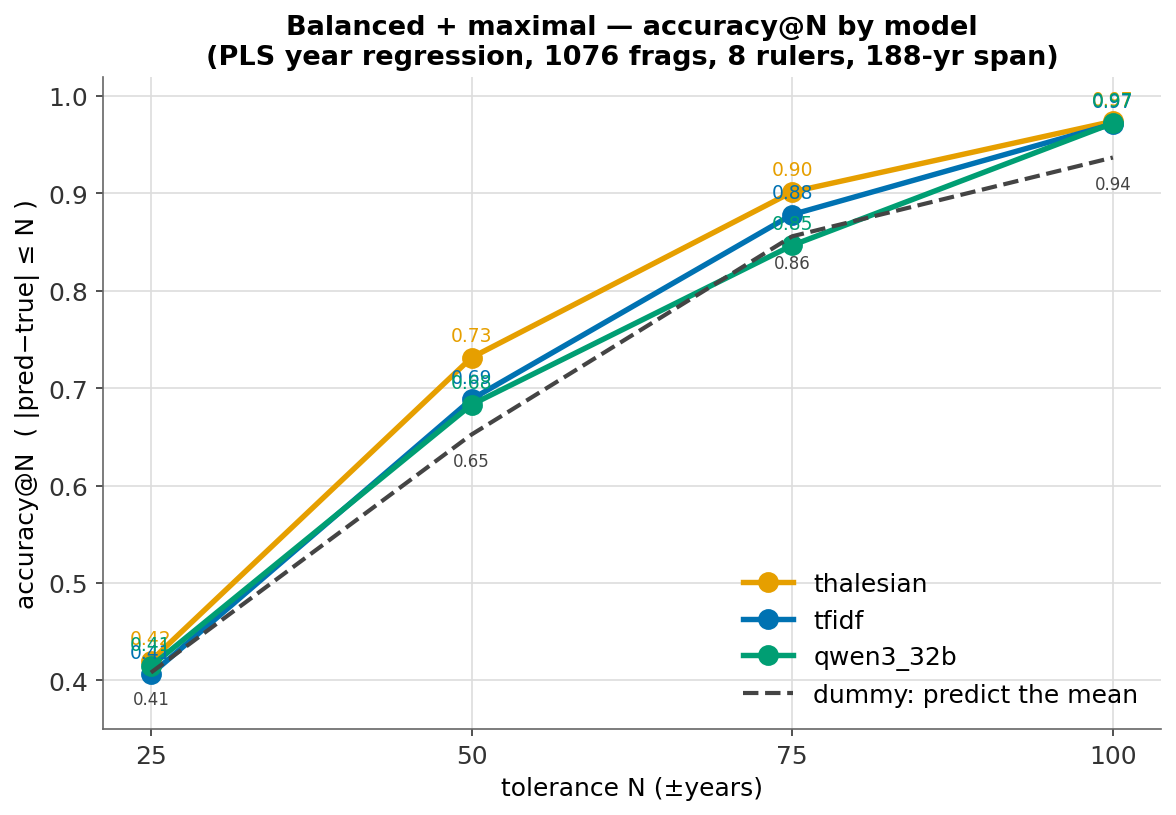
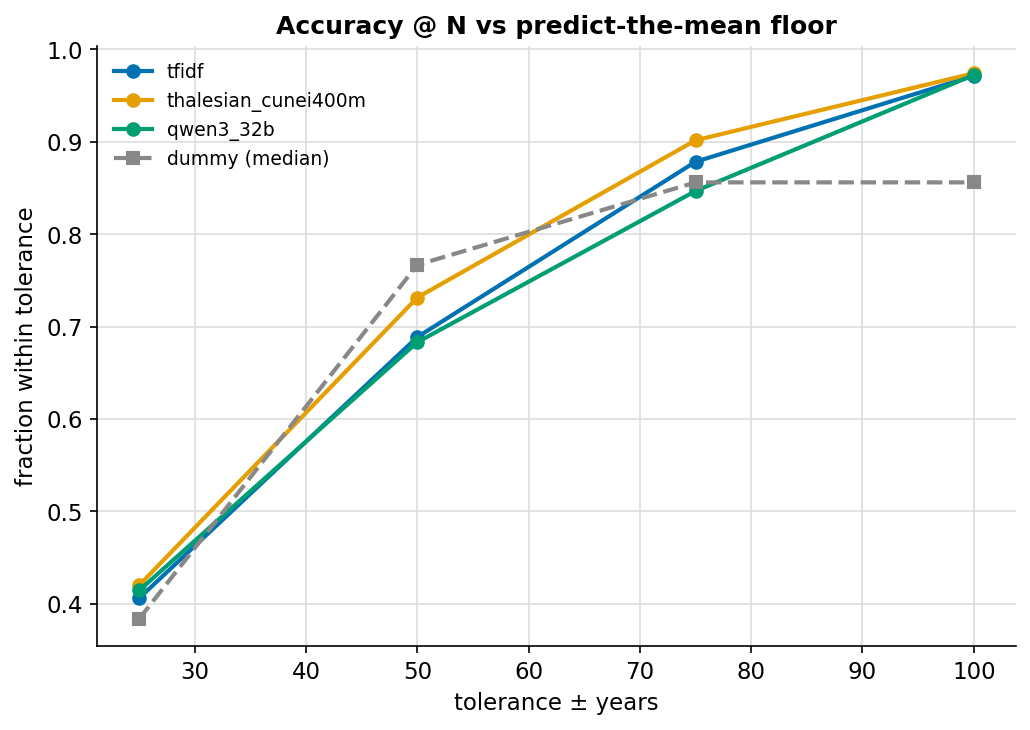
Committed balanced_summary.py (scale-aware summary + chronology) for any predictions_* dir
Replaces the prior laptop-only summary/accuracy@N/chronology scripts; auto-detects
models, dummy=median floor, regenerates summary.csv + accuracy_at_N_table.csv +
accuracy_at_N.png + chronology.png. Wired into both balanced sbatchs so future
runs auto-produce them. Ran on both balanced cells.

diff --git a/v_1/src/geodesic/fig1_followups/error_overlap/balanced_summary.py b/v_1/src/geodesic/fig1_followups/error_overlap/balanced_summary.py
@@ -1,0 +1,135 @@
+#!/usr/bin/env python3
+"""Scale-aware summary + chronology for any predictions_*/predictions.csv.
+
+Regenerates (committed replacement for the prior laptop-only scripts) — works on
+any predictions dir, auto-detecting models from pred_<m> columns:
+
+  - summary.csv          Spearman, MAE, MAE/std, acc@25 + lift-vs-dummy, + dummy row
+  - accuracy_at_N_table.csv  acc@N for N in {25,50,75,100} + Δ-vs-dummy + avg row
+  - accuracy_at_N.png    acc@N line per model + dummy floor
+  - chronology.png       (A) accuracy-vs-tolerance sweep + dummy; (B) per-ruler MAE
+                         vs chronological order + per-ruler dummy-MAE line
+
+Dummy = predict-the-constant (median year) — the MAE-optimal baseline. On the
+balanced sets the year span is tiny (~188 yr) so acc@100 is near-trivial; always
+read acc@25 vs the dummy floor, plus MAE/std and Spearman.
+
+Usage:
+    python balanced_summary.py --pred-csv .../predictions_tier0_balanced/predictions.csv
+"""
+from __future__ import annotations
+
+import argparse
+import csv
+from pathlib import Path
+
+import numpy as np
+import pandas as pd
+from scipy.stats import spearmanr
+
+PAL = ["#0072B2", "#E69F00", "#009E73", "#D55E00", "#CC79A7"]
+NS = [25, 50, 75, 100]
+
+
+def main():
+    ap = argparse.ArgumentParser()
+    ap.add_argument("--pred-csv", type=Path, required=True)
+    ap.add_argument("--out-dir", type=Path, default=None)
+    args = ap.parse_args()
+    out = args.out_dir or args.pred_csv.parent
+    out.mkdir(parents=True, exist_ok=True)
+
+    df = pd.read_csv(args.pred_csv)
+    models = [c[5:] for c in df.columns if c.startswith("pred_")]
+    cm = {m: PAL[i % len(PAL)] for i, m in enumerate(models)}
+    y = df.year_true.values
+    dummy = np.median(y)
+    derr = np.abs(y - dummy)
+    dmae, dstd = derr.mean(), np.abs(y - y.mean()).std()
+
+    def stats(m):
+        ok = df[f"pred_{m}"].notna()
+        pr, yy = df[f"pred_{m}"][ok].values, y[ok]
+        ae = np.abs(pr - yy)
+        return dict(sp=spearmanr(pr, yy).statistic, mae=ae.mean(), mae_std=ae.std(),
+                    acc={N: (ae <= N).mean() for N in NS})
+
+    S = {m: stats(m) for m in models}
+
+    # summary.csv
+    with open(out / "summary.csv", "w", newline="") as f:
+        w = csv.writer(f)
+        w.writerow(["model", "spearman", "mae", "mae_over_std", "acc@25", "acc@25_lift_vs_dummy"])
+        d_acc25 = (derr <= 25).mean()
+        for m in models:
+            s = S[m]
+            w.writerow([m, f"{s['sp']:.3f}", f"{s['mae']:.1f}", f"{s['mae']/dstd:.3f}",
+                        f"{s['acc'][25]:.3f}", f"{s['acc'][25]-d_acc25:+.3f}"])
+        w.writerow(["DUMMY(median)", "0.000", f"{dmae:.1f}", f"{dmae/dstd:.3f}", f"{d_acc25:.3f}", "+0.000"])
+    print(f"[ok] summary.csv  (dummy: MAE {dmae:.1f}, acc@25 {d_acc25:.3f})")
+
+    # accuracy_at_N_table.csv
+    with open(out / "accuracy_at_N_table.csv", "w", newline="") as f:
+        w = csv.writer(f)
+        w.writerow(["model"] + [f"acc@{N}" for N in NS] + [f"Δ@{N}" for N in NS] + ["avg_lift"])
+        for m in models:
+            d = [(derr <= N).mean() for N in NS]
+            a = [S[m]["acc"][N] for N in NS]
+            lifts = [a[i] - d[i] for i in range(len(NS))]
+            w.writerow([m] + [f"{v:.3f}" for v in a] + [f"{v:+.3f}" for v in lifts]
+                       + [f"{np.mean(lifts):+.3f}"])
+        w.writerow(["DUMMY(median)"] + [f"{(derr<=N).mean():.3f}" for N in NS]
+                   + ["+0.000"] * len(NS) + ["+0.000"])
+    print("[ok] accuracy_at_N_table.csv")
+
+    import matplotlib
+    matplotlib.use("Agg")
+    import matplotlib.pyplot as plt
+    plt.rcParams.update({"figure.dpi": 150, "axes.spines.top": False, "axes.spines.right": False,
+                         "axes.grid": True, "grid.color": "#dddddd", "axes.axisbelow": True,
+                         "font.size": 11, "axes.titlesize": 12, "axes.titleweight": "bold",
+                         "legend.frameon": False})
+
+    # accuracy_at_N.png
+    fig, ax = plt.subplots(figsize=(7, 5))
+    for m in models:
+        ax.plot(NS, [S[m]["acc"][N] for N in NS], "-o", lw=2, color=cm[m], label=m)
+    ax.plot(NS, [(derr <= N).mean() for N in NS], "--s", lw=2, color="#888888", label="dummy (median)")
+    ax.set_xlabel("tolerance ± years"); ax.set_ylabel("fraction within tolerance")
+    ax.set_title("Accuracy @ N vs predict-the-mean floor")
+    ax.legend(fontsize=9)
+    fig.tight_layout(); fig.savefig(out / "accuracy_at_N.png", bbox_inches="tight"); plt.close(fig)
+    print("[ok] accuracy_at_N.png")
+
+    # chronology.png — (A) accuracy vs continuous tolerance; (B) per-ruler MAE vs chronology
+    tols = np.arange(5, 151, 5)
+    fig, (axA, axB) = plt.subplots(1, 2, figsize=(14, 5.2))
+    for m in models:
+        ok = df[f"pred_{m}"].notna(); ae = np.abs(df[f"pred_{m}"][ok].values - y[ok])
+        axA.plot(tols, [(ae <= t).mean() for t in tols], lw=2, color=cm[m], label=m)
+    axA.plot(tols, [(derr <= t).mean() for t in tols], "--", lw=2, color="#888888", label="dummy")
+    axA.axvline(25, color="#bbbbbb", lw=1); axA.set_xlabel("tolerance ± years")
+    axA.set_ylabel("fraction within tolerance"); axA.set_title("Accuracy vs tolerance (+ dummy floor)")
+    axA.legend(fontsize=9)
+
+    if "ruler" in df.columns:
+        rulers = (df.groupby("ruler").year_true.median().sort_values(ascending=False))  # old->recent
+        order = list(rulers.index)
+        xpos = np.arange(len(order))
+        for m in models:
+            mae = [np.abs(df[(df.ruler == r)][f"pred_{m}"] - df[(df.ruler == r)].year_true).mean()
+                   for r in order]
+            axB.plot(xpos, mae, "-o", ms=5, lw=1.8, color=cm[m], label=m)
+        dmae_r = [np.abs(df[df.ruler == r].year_true - dummy).mean() for r in order]
+        axB.plot(xpos, dmae_r, "--", lw=2, color="#888888", label="dummy")
+        axB.set_xticks(xpos)
+        axB.set_xticklabels([f"{r[:12]}\n{int(rulers[r])}" for r in order], rotation=45, ha="right", fontsize=7)
+        axB.set_ylabel("MAE (years)"); axB.set_title("Per-ruler MAE, oldest → most recent")
+        axB.legend(fontsize=8)
+    fig.suptitle(f"{out.name}: scale-aware dating quality", y=1.02, fontsize=12)
+    fig.tight_layout(); fig.savefig(out / "chronology.png", bbox_inches="tight"); plt.close(fig)
+    print("[ok] chronology.png")
+
+
+if __name__ == "__main__":
+    main()
